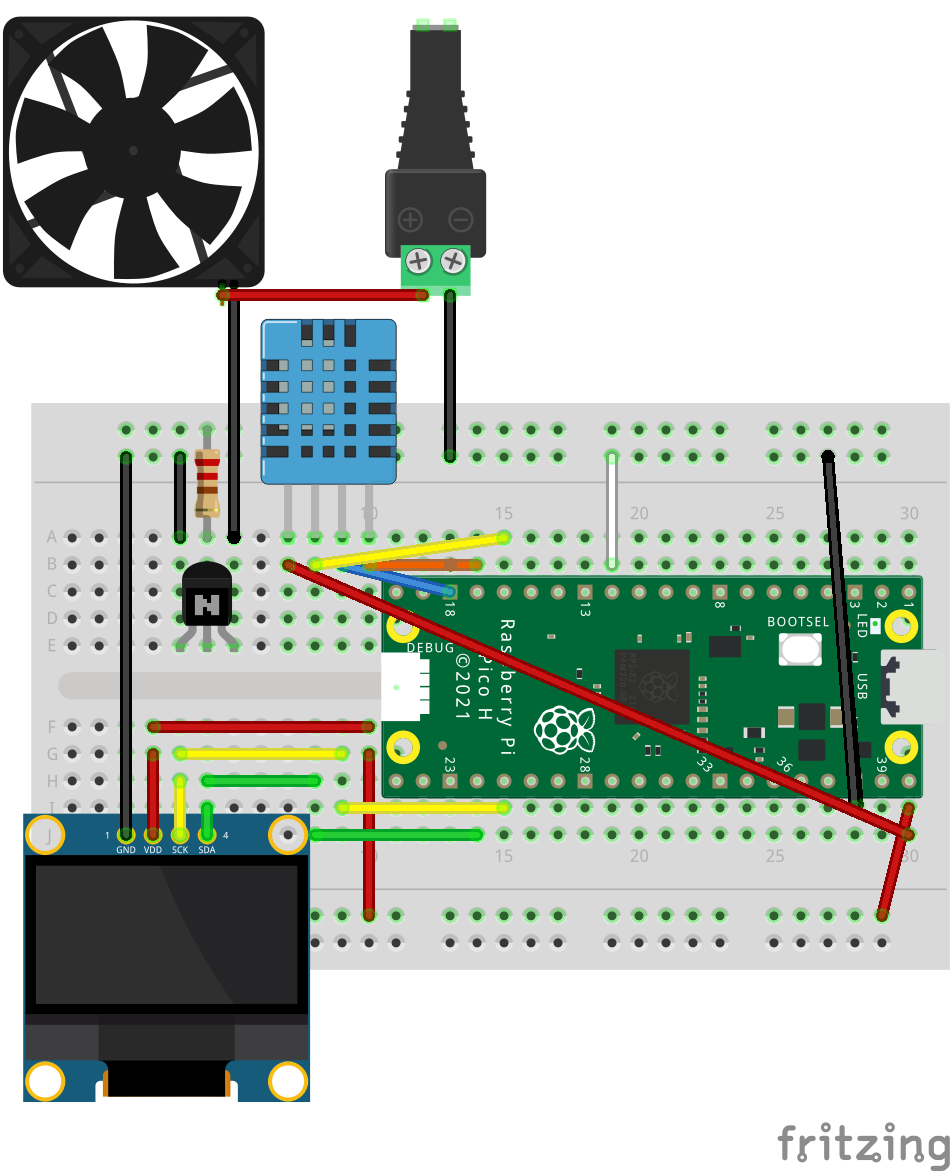
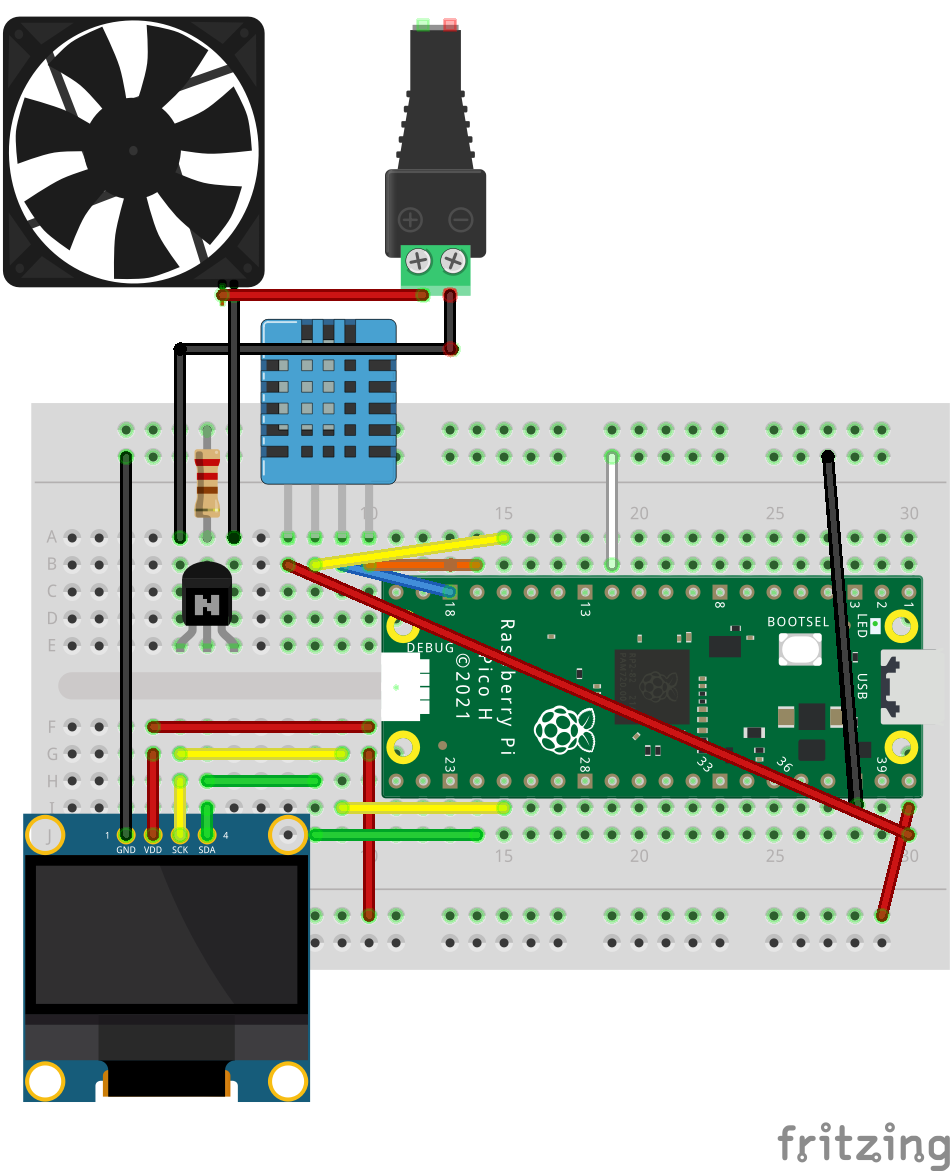
Correct Connections from Emitter

Changed region(s): [[0.1832, 0.2459, 0.4884, 0.3997], [0.8853, 0.5534, 0.9158, 0.7071], [0.4579, 0.0, 0.4884, 0.0307]]

diff --git a/README.md b/README.md
@@ -18,7 +18,7 @@ Collector to  Black Wire of the DC fan
 Base      to  470 Ohm resistor to power/+ on  breadboard rail 
  
 Emitter   to  Black wire of the 12 V power  
-Emitter   also to ground/- on the breadboard rail  
+Emitter   also to ground/- on the breadboard rail  (shared ground)
 
 Pico GPIO 15  to power/+ on the  breadboard rail  
 
